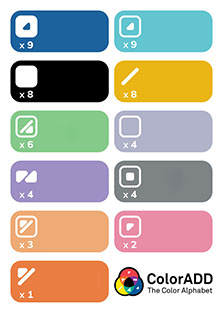
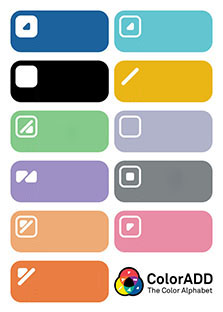
update color legend quantities with expansion

diff --git a/seasaltpaper.css b/seasaltpaper.css
@@ -209,7 +209,7 @@ body > .card {
   left: calc(var(--thickness) * var(--yShadowShift) * -1);
 }
 
-.card-stock.deck > .card:first-of-type {
+.card-stock.deck > .card:first-child {
   box-shadow: calc(var(--thickness) * var(--xShadowShift)) calc(var(--thickness) * var(--yShadowShift)) 0px 0px #111, calc(var(--thickness) * var(--xShadowShift)) calc(var(--thickness) * var(--yShadowShift)) 2px 1px rgba(0, 0, 0, 0.5);
 }
 
@@ -856,6 +856,43 @@ html.expansion #table-center #pick[data-visible=true]::before {
 #color-help-button .label[data-column="1"] {
   left: 143px;
 }
+#color-help-button .quantity {
+  position: absolute;
+  color: white;
+  font-size: 9pt;
+  opacity: 0;
+  text-transform: uppercase;
+  display: flex;
+  justify-content: center;
+  align-items: center;
+  width: 29px;
+  height: 17px;
+  word-break: break-word;
+}
+#color-help-button .quantity[data-row="0"] {
+  top: 36px;
+}
+#color-help-button .quantity[data-row="1"] {
+  top: 85.8px;
+}
+#color-help-button .quantity[data-row="2"] {
+  top: 135.6px;
+}
+#color-help-button .quantity[data-row="3"] {
+  top: 185.4px;
+}
+#color-help-button .quantity[data-row="4"] {
+  top: 235.2px;
+}
+#color-help-button .quantity[data-row="5"] {
+  top: 285px;
+}
+#color-help-button .quantity[data-column="0"] {
+  left: 11px;
+}
+#color-help-button .quantity[data-column="1"] {
+  left: 116px;
+}
 #color-help-button[data-folded=true] {
   background-image: url("img/logo-coloradd.svg");
 }
@@ -865,7 +902,7 @@ html.expansion #table-center #pick[data-visible=true]::before {
   height: 312px;
   border-radius: 10px;
 }
-#color-help-button[data-folded=false] .label {
+#color-help-button[data-folded=false] .label, #color-help-button[data-folded=false] .quantity {
   opacity: 1;
 }
 

diff --git a/seasaltpaper.js b/seasaltpaper.js
@@ -2631,6 +2631,17 @@ var SeaSaltPaper = /** @class */ (function () {
     };
     SeaSaltPaper.prototype.addHelp = function () {
         var _this = this;
+        var quantities = [
+            9, 9,
+            8, 8,
+            6, 4,
+            4, 4,
+            3, 2,
+            1,
+        ];
+        if (this.isExpansion()) {
+            [6, 9, 2, 4, 0, 1, 3, 5].forEach(function (index) { return quantities[index] += 1; });
+        }
         var labels = [
             _('Dark blue'),
             _('Light blue'),
@@ -2643,7 +2654,7 @@ var SeaSaltPaper = /** @class */ (function () {
             _('Light orange'),
             _('Pink'),
             _('Orange'),
-        ].map(function (label, index) { return "<span class=\"label\" data-row=\"".concat(Math.floor(index / 2), "\"  data-column=\"").concat(Math.floor(index % 2), "\">").concat(label, "</span>"); }).join('');
+        ].map(function (label, index) { return "\n            <span class=\"label\" data-row=\"".concat(Math.floor(index / 2), "\" data-column=\"").concat(Math.floor(index % 2), "\">").concat(label, "</span>\n            <span class=\"quantity\" data-row=\"").concat(Math.floor(index / 2), "\" data-column=\"").concat(Math.floor(index % 2), "\">&times; ").concat(quantities[index], "</span>\n            "); }).join('');
         dojo.place("\n            <button id=\"seasaltpaper-help-button\">?</button>\n            <button id=\"color-help-button\" data-folded=\"true\">".concat(labels, "</button>\n        "), 'left-side');
         document.getElementById('seasaltpaper-help-button').addEventListener('click', function () { return _this.showHelp(); });
         var helpButton = document.getElementById('color-help-button');

diff --git a/src/seasaltpaper.ts b/src/seasaltpaper.ts
@@ -526,6 +526,19 @@ class SeaSaltPaper implements SeaSaltPaperGame {
     }
 
     private addHelp() {
+        const quantities = [
+            9, 9,
+            8, 8,
+            6, 4,
+            4, 4,
+            3, 2,
+            1,
+        ];
+
+        if (this.isExpansion()) {
+            [6, 9, 2, 4, 0, 1, 3, 5].forEach(index => quantities[index] += 1);
+        }
+
         let labels = [
             _('Dark blue'),
             _('Light blue'),
@@ -538,7 +551,10 @@ class SeaSaltPaper implements SeaSaltPaperGame {
             _('Light orange'),
             _('Pink'),
             _('Orange'),
-        ].map((label, index) => `<span class="label" data-row="${Math.floor(index / 2)}"  data-column="${Math.floor(index % 2)}">${label}</span>`).join('');
+        ].map((label, index) => `
+            <span class="label" data-row="${Math.floor(index / 2)}" data-column="${Math.floor(index % 2)}">${label}</span>
+            <span class="quantity" data-row="${Math.floor(index / 2)}" data-column="${Math.floor(index % 2)}">&times; ${quantities[index]}</span>
+            `).join('');
         dojo.place(`
             <button id="seasaltpaper-help-button">?</button>
             <button id="color-help-button" data-folded="true">${labels}</button>

diff --git a/src/_help.scss b/src/_help.scss
@@ -53,6 +53,31 @@
         }
     }
 
+    .quantity {
+        position: absolute;
+        color: white;
+        font-size: 9pt;
+        opacity: 0;
+        text-transform: uppercase;
+        display: flex;
+        justify-content: center;
+        align-items: center;
+        width: 29px;
+        height: 17px;
+        word-break: break-word;
+
+        @for $i from 0 through 5 {
+            &[data-row="#{$i}"] {
+              top: #{36 + $i * 49.8}px;
+            }
+        }
+        @for $i from 0 through 1 {
+            &[data-column="#{$i}"] {
+              left: #{11 + $i * 105}px;
+            }
+        }
+    }
+
     &[data-folded="true"] {
         background-image: url('img/logo-coloradd.svg');
     }
@@ -62,7 +87,7 @@
         height: 312px;
         border-radius: 10px;
         
-        .label {
+        .label, .quantity {
             opacity: 1;
         }
     }

diff --git a/modules/php/debug-util.php b/modules/php/debug-util.php
@@ -34,7 +34,7 @@ trait DebugUtilTrait {
         $this->debugSetCardInHand(2343492, PAIR, CRAB, DARK_BLUE);
         $this->debugSetCardInHand(2343492, PAIR, CRAB, LIGHT_BLUE);
         $this->debugSetCardInHand(2343492, PAIR, LOBSTER, BLACK);*/
-        $this->debugSetCardInHand(2343492, SPECIAL, STARFISH, YELLOW);
+        //$this->debugSetCardInHand(2343492, SPECIAL, STARFISH, YELLOW);
 
         $this->gamestate->changeActivePlayer(2343492);
     }
